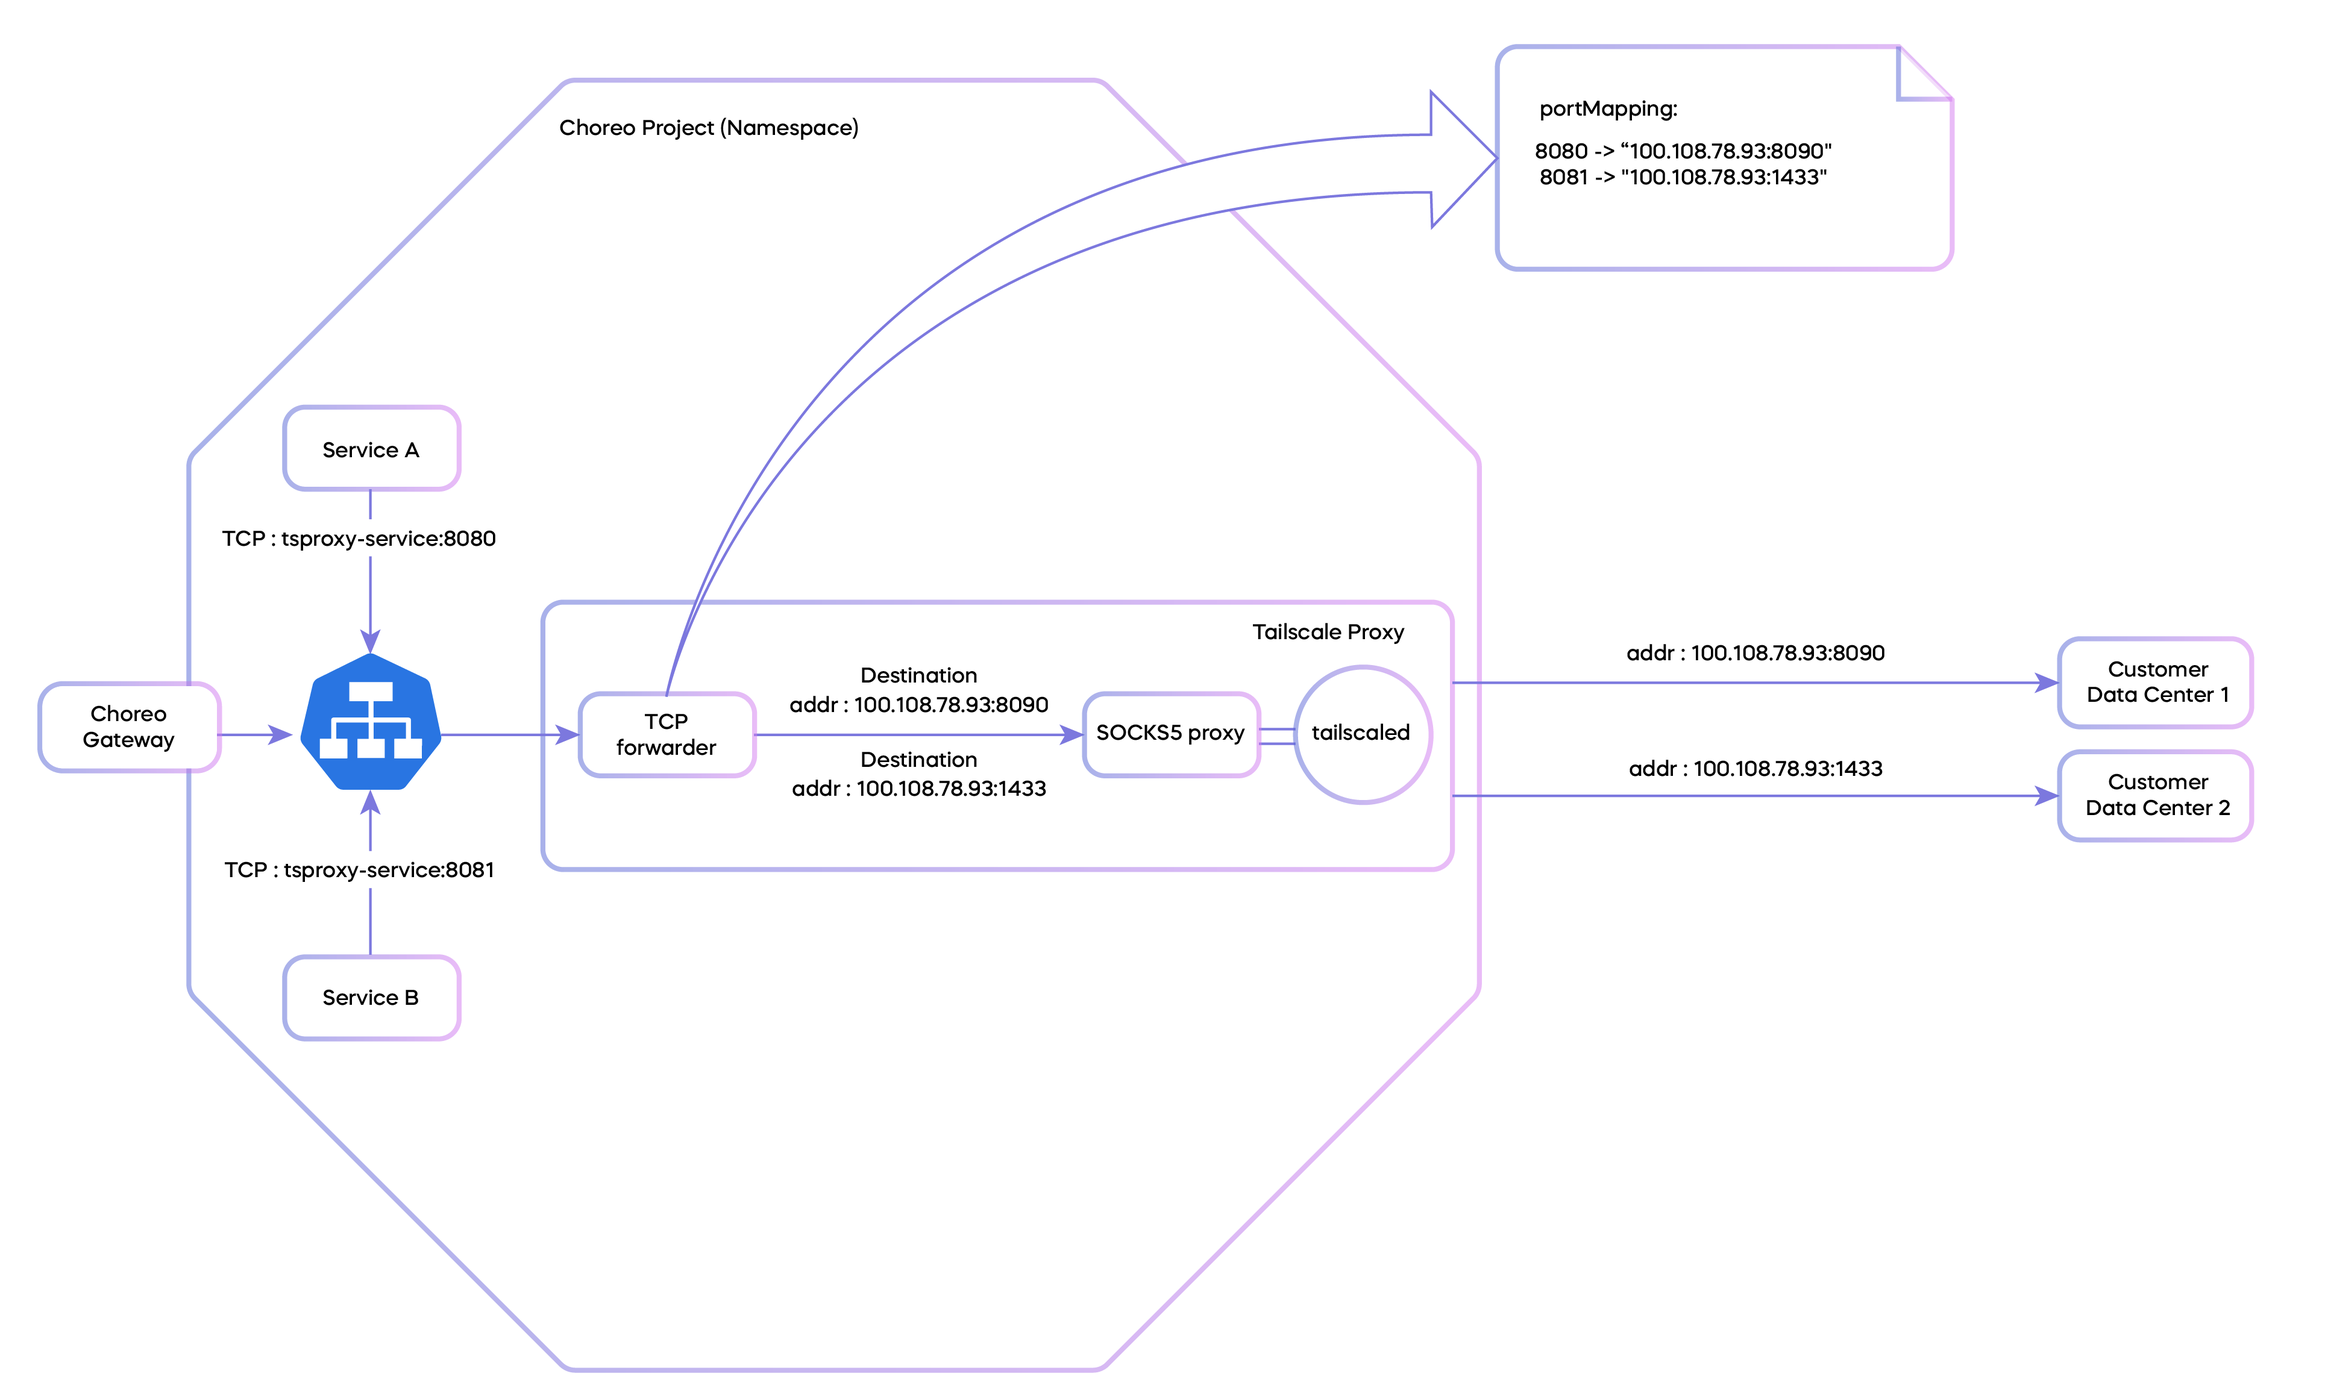
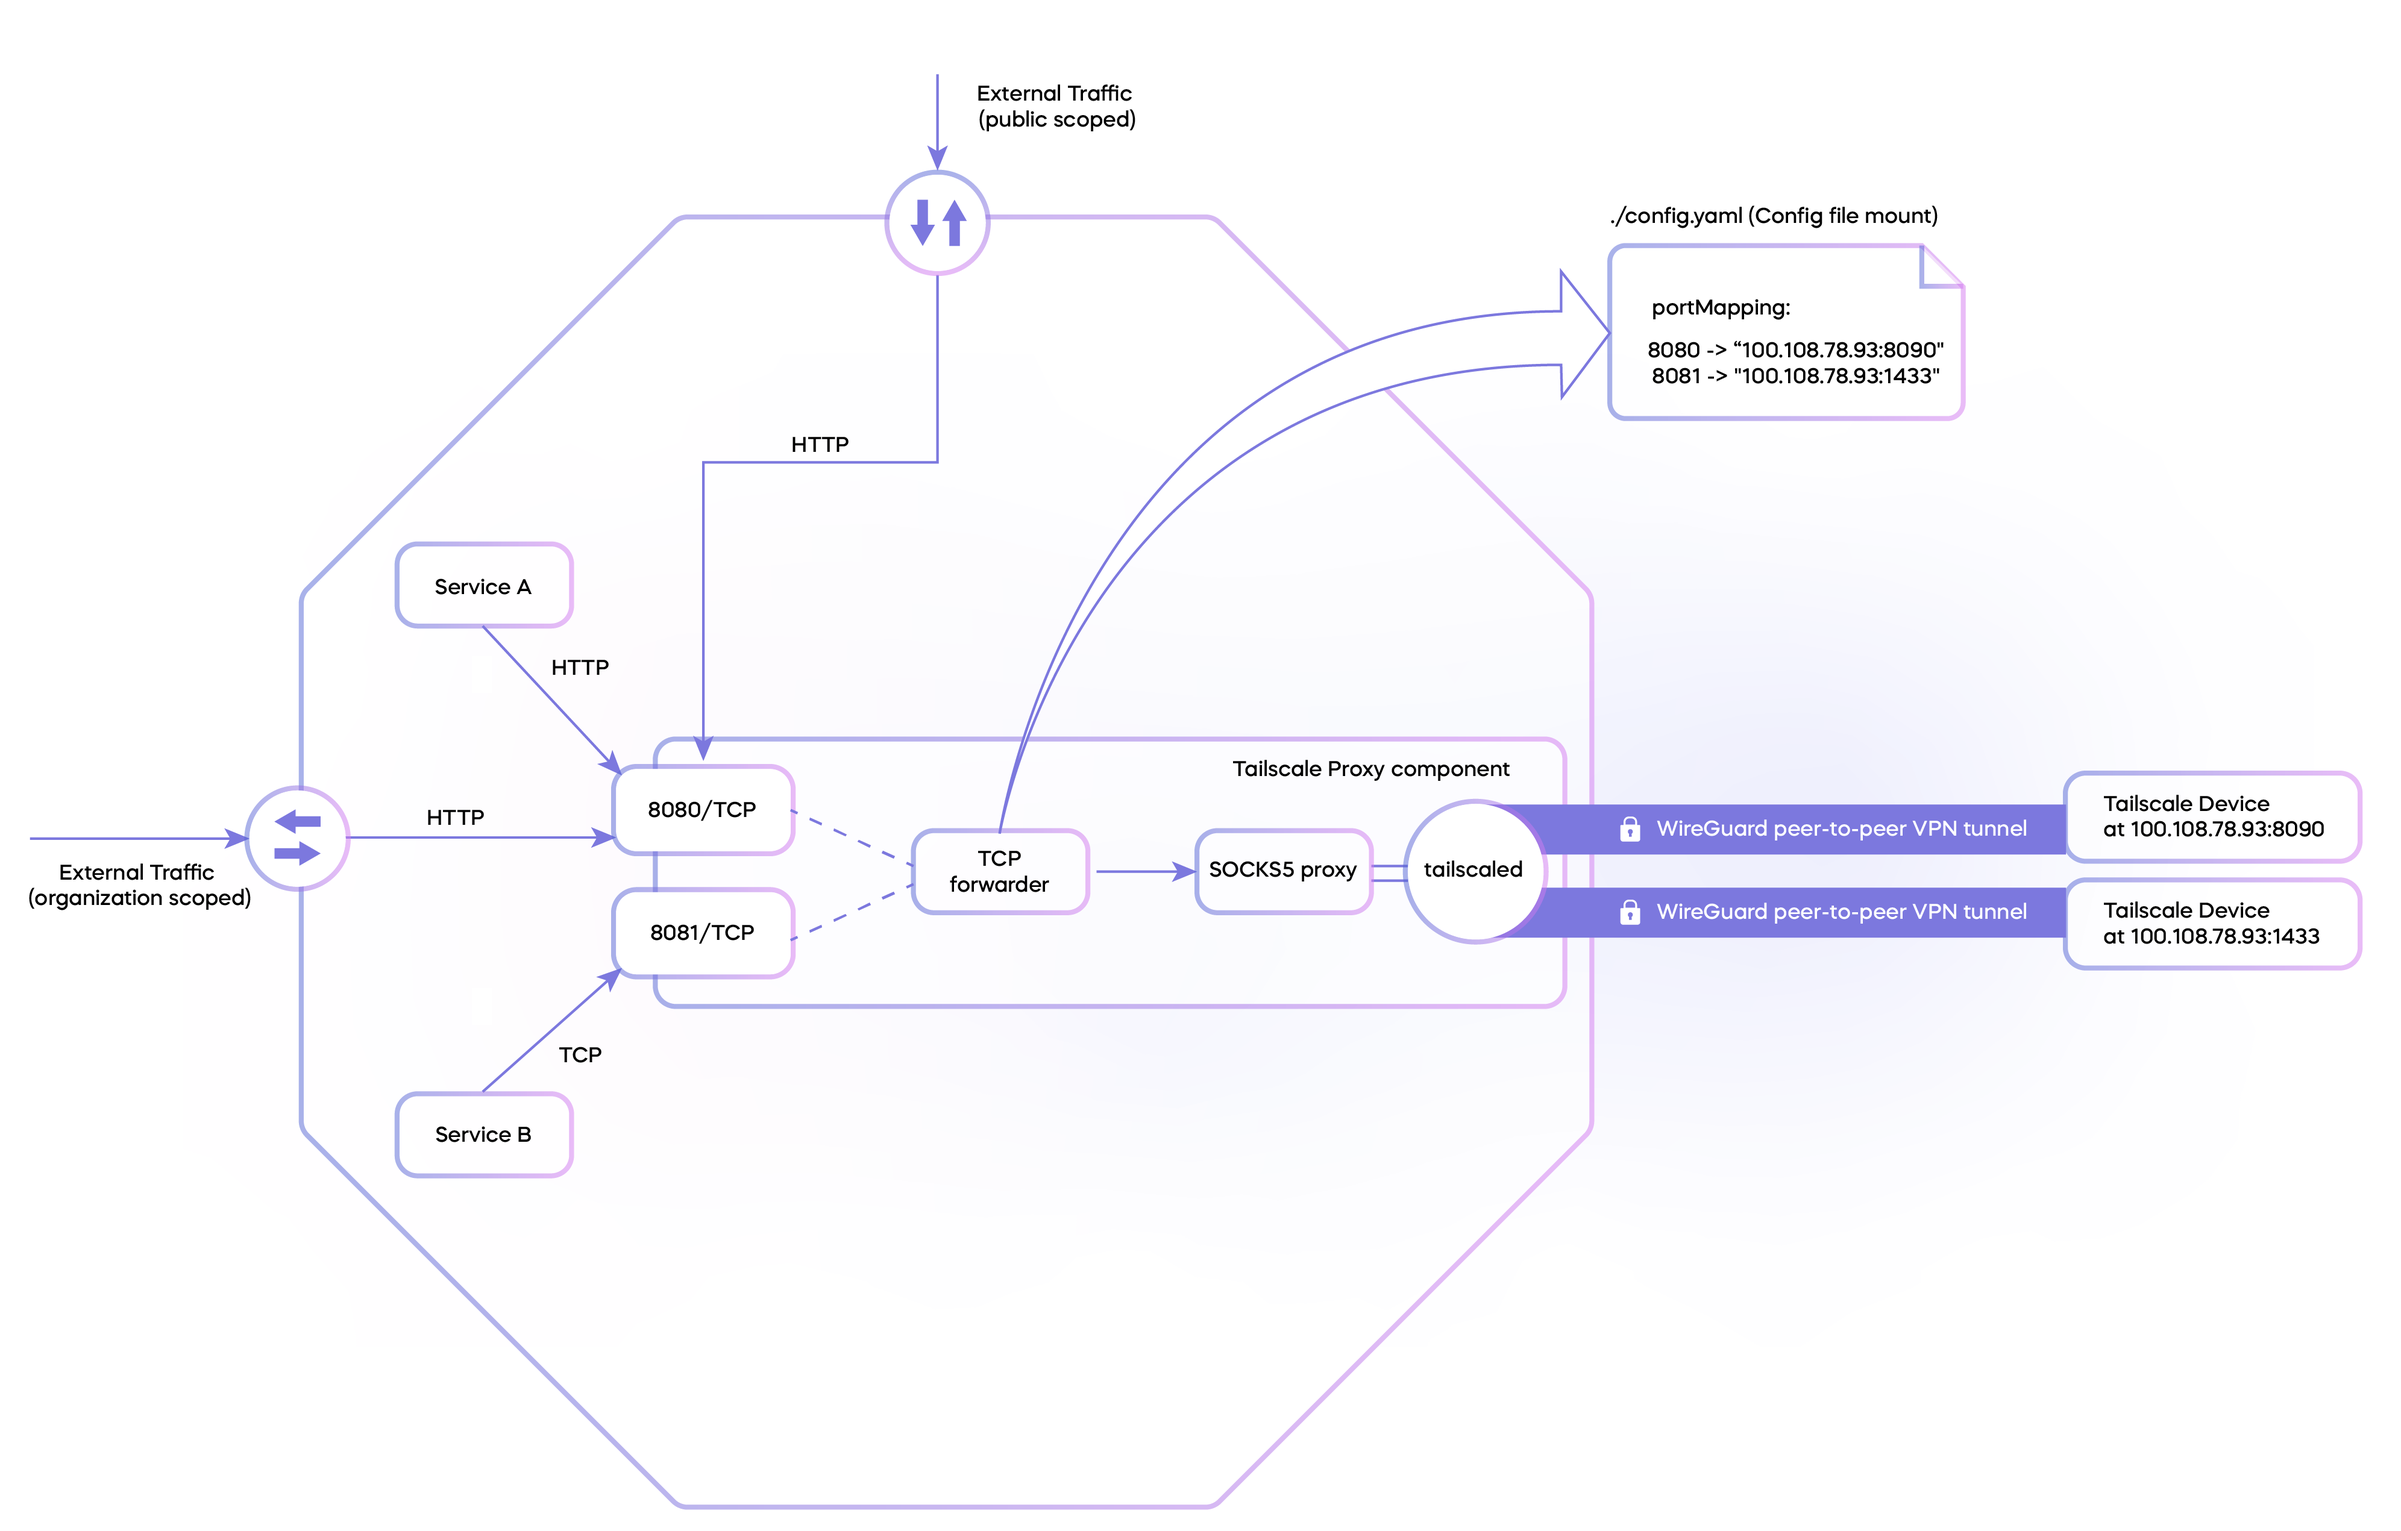
Improvements for tailscale docs

diff --git a/en/docs/devops-and-ci-cd/configure-vpns-on-the-choreo-cloud-data-plane.md b/en/docs/devops-and-ci-cd/configure-vpns-on-the-choreo-cloud-data-plane.md
@@ -123,7 +123,7 @@ To configure and deploy the component, follow the steps given below:
 4. Click **Next**.
 5. In the **File Mount** pane that opens, click **+ Add**.
 6. To mount a configuration file to the Tailscale proxy component and specify the port mapping for the TCP forward proxy running there, do the following:
-    1. Specify `/Config.yaml` as the **Mount Path**.
+    1. Specify `/config.yaml` as the **Mount Path**.
     2. Specify the following in the sample configuration file:
        ```
        portMappings:
